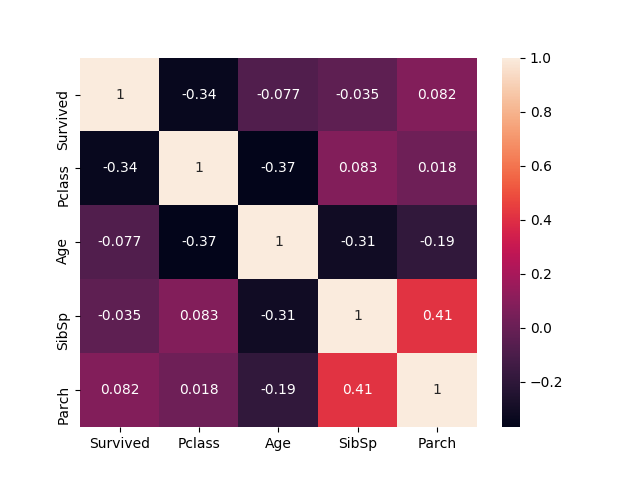
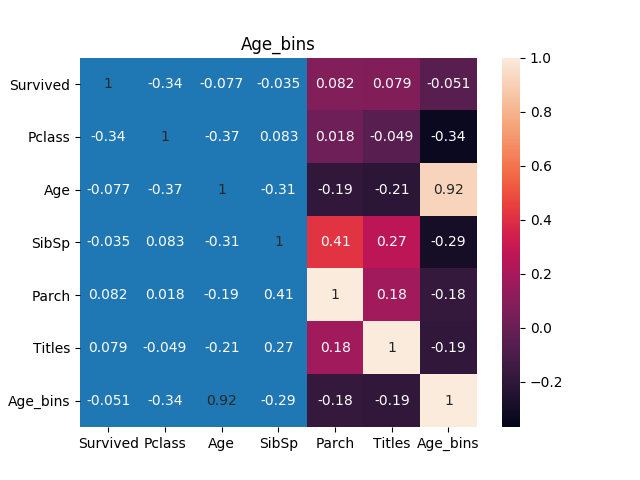
Deal with NaN and titles

diff --git a/train.py b/train.py
@@ -14,24 +14,72 @@ IDtest = test["PassengerId"]
 train['Age'] = train['Age'].replace('NaN', np.nan)
 test['Age'] = test['Age'].replace('NaN', np.nan)
 
+titels = ('Mlle.', 'Dr.', 'Master.', 'Col.', 'Rev.', 'Sir.', 'Lady.', 'Major.', 'Mme.', 'Capt.')
+
 k=-1
 for i in train['Age']:
 	k+=1
+	string = (train.iloc[k,3])
+	train.at[k, 'Name'] = string.split(',', 1)[0]
+	train.at[k, 'Titles'] = 0
+	for i in string.split(' '):
+		if i in titels:
+			train.at[k, 'Titles'] = 1	
 	if pd.isna(i):
-		print(train.iloc[k,:])
+		if train.iloc[k,6] < 2:
+			if train.iloc[k,7] > 2:
+				train.at[k, 'Age'] = train.loc[train['Parch'] > 2, 'Age'].mean()
+			else:
+				train.at[k, 'Age'] = train['Age'].mean()
+		if train.iloc[k,6] == 2:
+			train.at[k, 'Age'] = train.loc[train['SibSp'] == 2, 'Age'].mean()
+		if train.iloc[k,6] > 2:
+			train.at[k, 'Age'] = train.loc[train['SibSp'] > 2, 'Age'].mean()
+
+k=-1
+for i in test['Age']:
+	k+=1
+	string = (test.iloc[k,2])
+	test.at[k, 'Name'] = string.split(',', 1)[0]
+	test.at[k, 'Titles'] = 0
+	for i in string.split(' '):
+		if i in titels:
+			test.at[k, 'Titles'] = 1	
+	if pd.isna(i):
+		if test.iloc[k,5] < 2:
+			if test.iloc[k,6] > 2:
+				test.at[k, 'Age'] = train.loc[train['Parch'] > 2, 'Age'].mean()
+			else:
+				test.at[k, 'Age'] = train['Age'].mean()
+		if test.iloc[k,5] == 2:
+			test.at[k, 'Age'] = train.loc[train['SibSp'] == 2, 'Age'].mean()
+		if test.iloc[k,5] > 2:
+			test.at[k, 'Age'] = train.loc[train['SibSp'] > 2, 'Age'].mean()
 
 print(train.groupby('SibSp', as_index=False)['Age'].mean())
 print(train.groupby('Parch', as_index=False)['Age'].mean())
 
-correlation = train.groupby('SibSp', as_index=False)['Age'].mean()
-print(correlation)
+
+train['Age_bins'] = pd.cut(x=train['Age'], bins=[0, 18, 24, 30, 50, 80], labels=False)
+test['Age_bins'] = pd.cut(x=test['Age'], bins=[0, 18, 24, 30, 50, 80], labels=False)
+
+##print(correlation)
+
+print(train.describe())
+
+#Create Graphs and Heatmap for data
+
+train[['Age']].hist(bins=10)
+plt.savefig('graphs/age_hist.png')
+
+
+train[['Age_bins']].hist(bins=5)
+plt.savefig('graphs/age_bins_hist.png')
 
 train = train.drop(["PassengerId","Cabin","Ticket","Name","Fare"], axis=1)
 test = test.drop(["PassengerId","Cabin","Ticket","Name","Fare"], axis=1)
 
-print(train.describe())
-
-#Create Heatmap for data
+plt.close
 
 trainMatrix = train.corr()
 sn.heatmap(trainMatrix, annot=True)
@@ -39,27 +87,10 @@ plt.savefig('graphs/heatmap.png')
 plt.close
 x=0
 
-train[['Age']].hist(bins=10)
-plt.savefig('graphs/age_hist.png')
-
-train['Age_bins'] = pd.cut(x=train['Age'], bins=[0, 18, 25, 35, 50, 100], labels=False)
-test['Age_bins'] = pd.cut(x=test['Age'], bins=[0, 18, 25, 35, 50, 100], labels=False)
-
-train[['Age_bins']].hist(bins=5)
-plt.savefig('graphs/age_bins_hist.png')
-
-correlation = train['Age_bins'].corr(train['Survived'])
-correlation2 = train['Age'].corr(train['Survived'])
-
-print(correlation)
-print(correlation2)
-
-
-##print(train.groupby(['Sex', 'Pclass'])['Age'].agg(['mean', 'median']).round(1))
-
 #####deal with nan
 
-
+#print(pd.isnull(train).sum() > 0)
+#print(pd.isnull(test).sum() > 0)
 
 columns_nan = ('Age','Age_bins','Embarked')
 
@@ -75,13 +106,6 @@ for column in columns_nan:
 	imputer = SimpleImputer(missing_values=np.nan, strategy=strat)
 	imputer.fit(test[[column]])
 	test[[column]]= imputer.transform(test[[column]])
-
-
-
-###check for nan
-
-#print(pd.isnull(train).sum() > 0)
-#print(pd.isnull(test).sum() > 0)
 
 #transform categorial to numerical 
 
